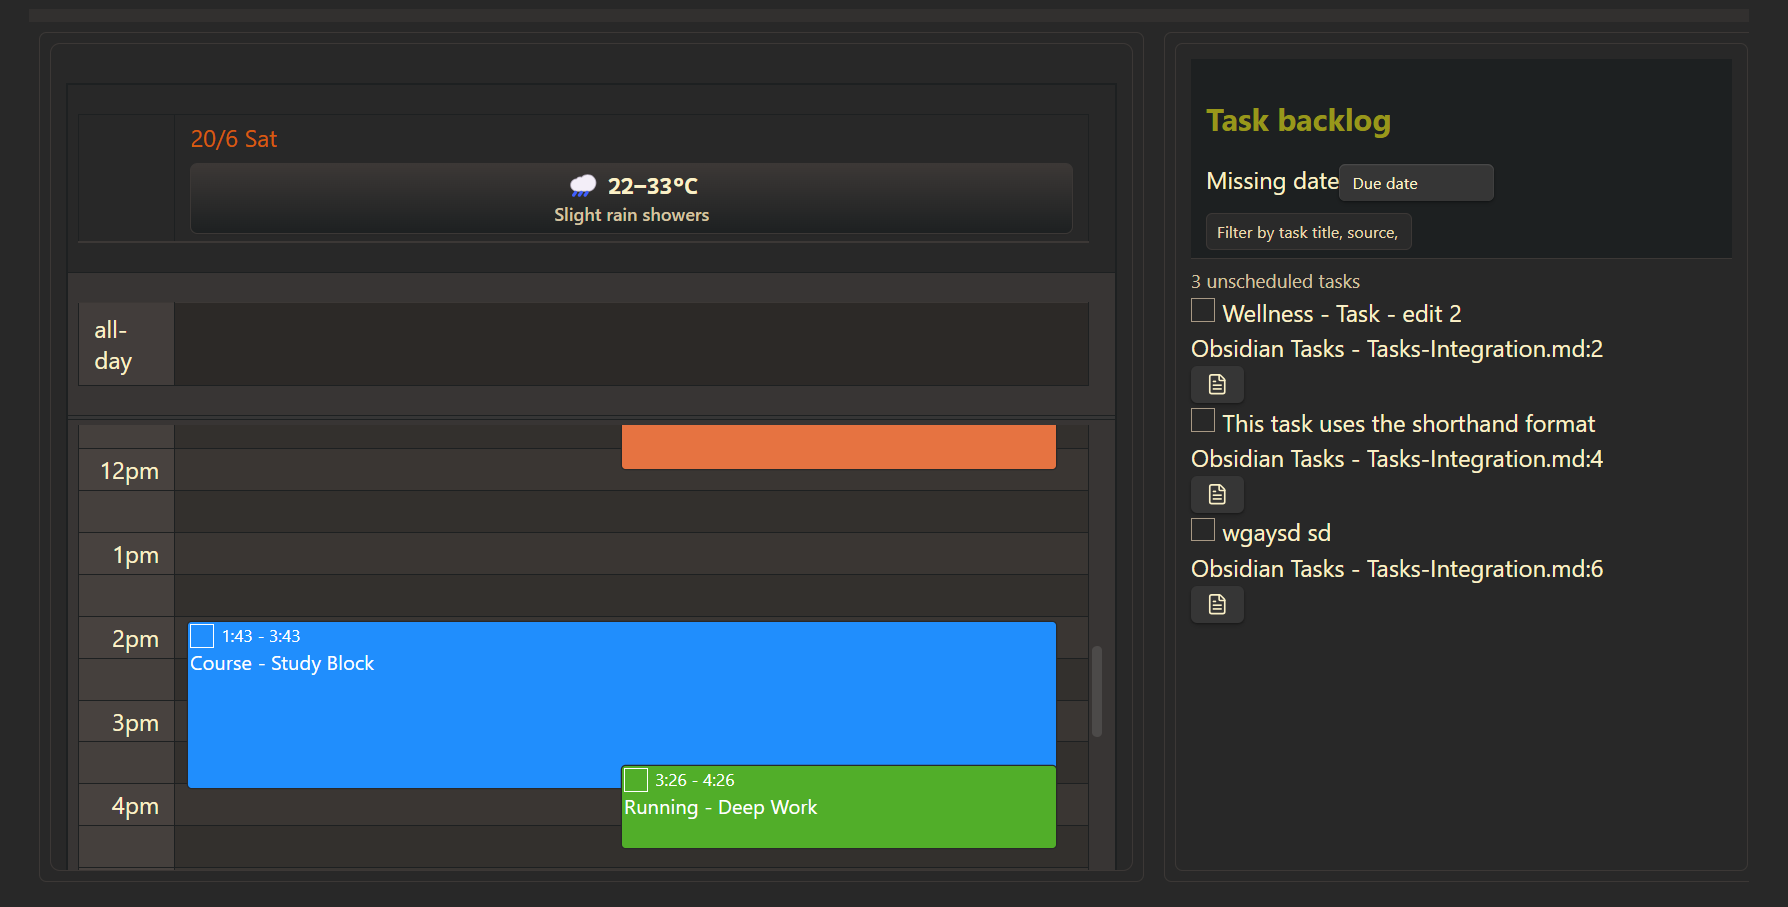
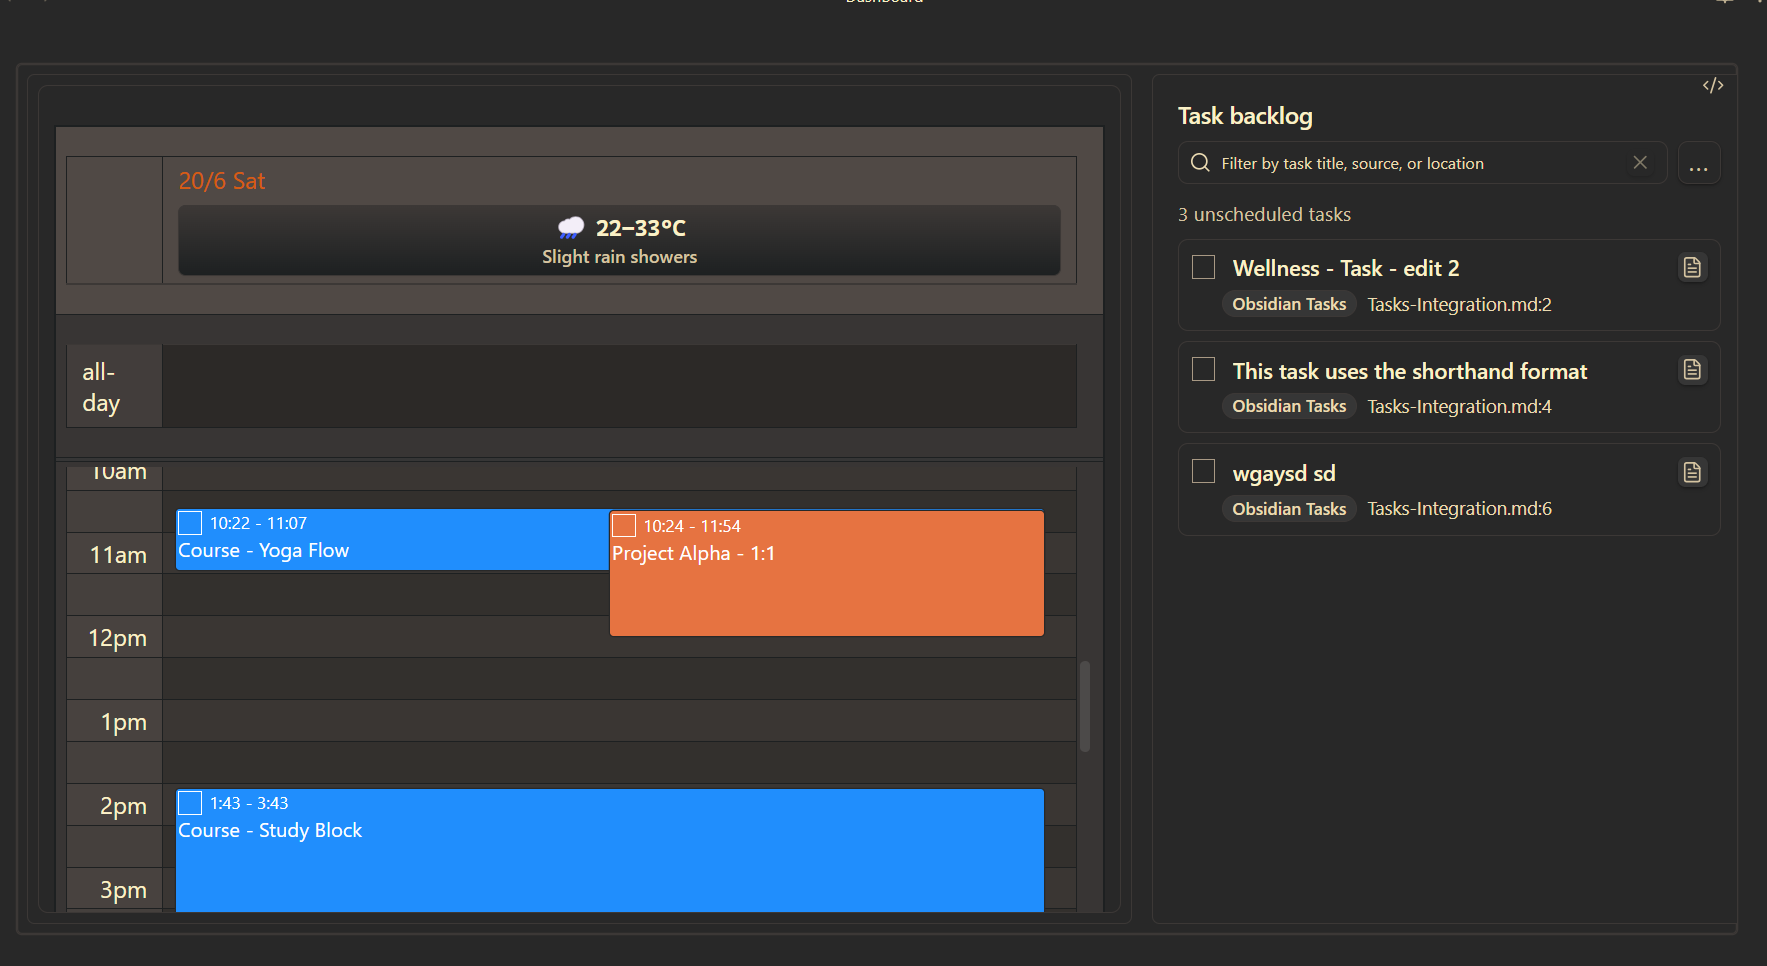
feat(docs): refine showcase layout toggling, ToC targeting, and callout spacing
- generate stable showcase card slugs and dedicated ToC anchors in build hook
- map ToC clicks to visible card targets with header-offset scrolling
- improve showcase grid with auto-fit min width and desktop drawer-toggle behavior
- expand showcase content width when left nav is hidden; restore default when shown
- remove prose max-width cap inside callouts/details to fix asymmetric right padding

diff --git a/docs/assets/stylesheets/showcase.css b/docs/assets/stylesheets/showcase.css
@@ -1,10 +1,28 @@
 /* Showcase grid and card styles */
 .fc-showcase-grid {
   display: grid;
-  grid-template-columns: repeat(auto-fill, minmax(280px, 1fr));
+  grid-template-columns: repeat(auto-fit, minmax(var(--fc-showcase-card-min-width, 280px), 1fr));
   gap: 1.5rem;
   margin: 1.5rem 0;
   max-width: 100% !important;
+}
+
+.fc-showcase-toc-anchor {
+  position: absolute;
+  left: -9999px;
+  width: 1px;
+  height: 1px;
+  margin: 0 !important;
+  padding: 0 !important;
+  overflow: hidden;
+  clip: rect(0 0 0 0);
+  white-space: nowrap;
+  border: 0 !important;
+  scroll-margin-top: 5rem;
+}
+
+.fc-showcase-toc-anchor .headerlink {
+  display: none !important;
 }
 
 .fc-showcase-card {
@@ -46,7 +64,7 @@
   gap: 0.5rem;
 }
 
-.fc-showcase-card-info h3 {
+.fc-showcase-card-title {
   margin: 0 !important;
   font-size: 1.1rem !important;
   font-weight: 600 !important;
@@ -206,10 +224,59 @@
   padding-bottom: 0 !important;
 }
 
+.fc-modal-info-col .fc-modal-title {
+  margin: 0 0 1rem !important;
+  font-size: 1.5rem !important;
+  font-weight: 700 !important;
+  line-height: 1.3 !important;
+}
+
 .fc-modal-info-col h4 {
   margin-top: 1.8rem !important;
   margin-bottom: 0.8rem !important;
   font-size: 1.1rem !important;
+}
+
+@media (min-width: 76.25em) {
+  .fc-showcase-page {
+    --fc-showcase-card-min-width: 260px;
+  }
+
+  /* Material hides drawer toggle on desktop by default; enable it for showcase page. */
+  .fc-showcase-page .md-header__button.md-icon[for="__drawer"] {
+    display: inline-flex !important;
+  }
+
+  .fc-showcase-page .md-sidebar--primary {
+    transform: translateX(calc(-100% - 0.75rem));
+    opacity: 0;
+    pointer-events: none;
+    transition: transform 0.25s ease, opacity 0.25s ease;
+  }
+
+  .fc-showcase-page .md-content {
+    margin-left: 0;
+  }
+
+  .fc-showcase-page .md-toggle[data-md-toggle="drawer"]:checked ~ .md-container .md-sidebar--primary {
+    transform: none;
+    opacity: 1;
+    pointer-events: auto;
+  }
+
+  .fc-showcase-page .md-toggle[data-md-toggle="drawer"]:checked ~ .md-container .md-content {
+    margin-left: revert;
+  }
+
+  /* When the left panel is hidden, use the freed width for more card columns. */
+  .fc-showcase-page .md-toggle[data-md-toggle="drawer"]:not(:checked) ~ .md-container .md-main .md-main__inner.md-grid {
+    max-width: min(98vw, 1900px);
+  }
+
+  /* Restore the normal docs width when the left panel is visible again. */
+  .fc-showcase-page .md-toggle[data-md-toggle="drawer"]:checked ~ .md-container .md-main .md-main__inner.md-grid {
+    max-width: revert;
+  }
 }
 
 /* Modal typography and code font size adjustments */

diff --git a/docs/assets/javascripts/showcase-modal.js b/docs/assets/javascripts/showcase-modal.js
@@ -2,6 +2,7 @@
   let activeDetails = null;
   let modalElement = null;
   let modalContent = null;
+  let tocClickBound = false;
 
   // Zoom/pan state variables
   let scale = 1;
@@ -11,8 +12,69 @@
   let startX = 0;
   let startY = 0;
 
+  function isShowcasePage() {
+    return !!document.querySelector('.fc-showcase-grid');
+  }
+
+  function syncShowcasePageClass() {
+    const active = isShowcasePage();
+    document.documentElement.classList.toggle('fc-showcase-page', active);
+    document.body.classList.toggle('fc-showcase-page', active);
+  }
+
+  function getHeaderOffset() {
+    const header = document.querySelector('.md-header');
+    const headerHeight = header instanceof HTMLElement ? header.offsetHeight : 0;
+    return headerHeight + 16;
+  }
+
+  function bindTocAnchorFix() {
+    if (tocClickBound) return;
+
+    document.addEventListener('click', event => {
+      if (!isShowcasePage()) return;
+
+      const target = event.target;
+      if (!(target instanceof Element)) return;
+
+      const tocLink = target.closest('.md-sidebar--secondary .md-nav__link[href^="#"]');
+      if (!(tocLink instanceof HTMLAnchorElement)) return;
+
+      const hash = tocLink.getAttribute('href');
+      if (!hash || hash.length < 2) return;
+
+      const targetId = decodeURIComponent(hash.slice(1));
+      const anchorTarget = document.getElementById(targetId);
+      if (!(anchorTarget instanceof HTMLElement)) return;
+
+      let scrollTarget = anchorTarget;
+      if (anchorTarget.classList.contains('fc-showcase-toc-anchor')) {
+        const cardTargetId = anchorTarget.getAttribute('data-card-target');
+        if (cardTargetId) {
+          const cardTarget = document.getElementById(cardTargetId);
+          if (cardTarget instanceof HTMLElement) {
+            scrollTarget = cardTarget;
+          }
+        }
+      }
+
+      event.preventDefault();
+      const scrollTop = scrollTarget.getBoundingClientRect().top + window.scrollY - getHeaderOffset();
+      window.scrollTo({ top: Math.max(scrollTop, 0), behavior: 'smooth' });
+
+      if (window.history && typeof window.history.replaceState === 'function') {
+        window.history.replaceState(null, '', hash);
+      }
+    });
+
+    tocClickBound = true;
+  }
+
   function initShowcaseModal() {
     const grid = document.querySelector('.fc-showcase-grid');
+    syncShowcasePageClass();
+    bindTocAnchorFix();
+
     if (!grid) return;
 
     // Create the modal element if it doesn't exist yet

diff --git a/docs/assets/stylesheets/site-polish.css b/docs/assets/stylesheets/site-polish.css
@@ -27,6 +27,14 @@
   max-width: var(--fc-content-max-width);
 }
 
+/* Callouts should use their full container width instead of prose line-length caps. */
+.md-typeset .admonition :is(p, ul, ol, blockquote, table),
+.md-typeset details :is(p, ul, ol, blockquote, table),
+.md-typeset .admonition > .admonition-title,
+.md-typeset details > summary {
+  max-width: none;
+}
+
 .md-sidebar .md-nav__link {
   border-radius: var(--fc-nav-radius);
   transition: background-color 120ms ease, color 120ms ease;

diff --git a/tools/generate_showcase.py b/tools/generate_showcase.py
@@ -1,25 +1,35 @@
+import html
 import os
 import re
 
+
+def slugify(value):
+    slug = re.sub(r"[^a-z0-9]+", "-", value.lower()).strip("-")
+    return slug or "showcase-card"
+
+
+def demote_markdown_headings(value):
+    # Hidden modal source content should not generate page-level ToC entries.
+    return re.sub(r"^#{1,6}\s+(.+)$", r"**\1**", value, flags=re.MULTILINE)
+
+
 def on_page_markdown(markdown, page, config, files):
-    # Only execute on the showcase page
-    if page.file.src_path != "user/embeds/showcase.md" and page.file.src_path != "user\\embeds\\showcase.md":
+    # Only execute on the showcase page.
+    if page.file.src_path not in {"user/embeds/showcase.md", "user\\embeds\\showcase.md"}:
         return markdown
 
-    # Path to the blueprints data file
-    docs_dir = config['docs_dir']
+    docs_dir = config["docs_dir"]
     blueprints_path = os.path.join(docs_dir, "user", "embeds", "showcase_blueprints.md")
-
     if not os.path.exists(blueprints_path):
         return markdown
 
-    with open(blueprints_path, 'r', encoding='utf-8') as f:
-        content = f.read()
+    with open(blueprints_path, "r", encoding="utf-8") as file_obj:
+        content = file_obj.read()
 
-    # Split by horizontal rule ('---') to get each blueprint card
-    # The first block (index 0) is the header/instructions section and is skipped.
-    blocks = re.split(r'\n(?:---|===|\*\*\*)\s*\n', content)
+    # Split by horizontal rule. Block 0 contains instructions and is ignored.
+    blocks = re.split(r"\n(?:---|===|\*\*\*)\s*\n", content)
 
+    toc_headings = []
     cards = []
     details_divs = []
     card_index = 0
@@ -29,84 +39,93 @@ def on_page_markdown(markdown, page, config, files):
         if not block:
             continue
 
-        # Parse the title from the markdown heading (## Title)
-        title_match = re.search(r'^##\s+(.+)$', block, re.MULTILINE)
+        title_match = re.search(r"^##\s+(.+)$", block, re.MULTILINE)
         if not title_match:
             continue
         title = title_match.group(1).strip()
+        safe_title = html.escape(title)
 
-        # Parse image path from standard markdown syntax ![Alt](path)
-        image_match = re.search(r'\*\*Image\*\*:\s*!\[[^\]]*\]\(([^)]+)\)', block)
+        image_match = re.search(r"\*\*Image\*\*:\s*!\[[^\]]*\]\(([^)]+)\)", block)
         image_path = image_match.group(1).strip() if image_match else ""
 
-        # Parse summary
-        summary_match = re.search(r'\*\*Summary\*\*:\s*([^\n]+)', block)
+        summary_match = re.search(r"\*\*Summary\*\*:\s*([^\n]+)", block)
         summary = summary_match.group(1).strip() if summary_match else ""
+        safe_summary = html.escape(summary)
 
-        # Parse the last code block (usually the nested code block to copy)
-        code_blocks = list(re.finditer(r'(^(?:````|```)[\s\S]+?^(?:````|```))', block, re.MULTILINE))
-        code_block = ""
+        code_blocks = list(re.finditer(r"(^````[\s\S]+?^````\s*$)", block, re.MULTILINE))
+        if not code_blocks:
+            code_blocks = list(re.finditer(r"(^```[\s\S]+?^```\s*$)", block, re.MULTILINE))
         if code_blocks:
             code_block = code_blocks[-1].group(1)
-            # Remove the code block from description area
-            description_block = block[:code_blocks[-1].start()]
+            description_block = block[: code_blocks[-1].start()]
         else:
+            code_block = ""
             description_block = block
 
-        # Extract remaining description text, filtering out metadata headers
+        outer_fence_match = re.match(r"^````[^\n]*\n([\s\S]*?)\n````\s*$", code_block.strip(), re.MULTILINE)
+        if outer_fence_match:
+            inner_text = outer_fence_match.group(1).strip("\n")
+            code_block = inner_text
+
         description_lines = []
-        for line in description_block.split('\n'):
+        for line in description_block.split("\n"):
             stripped = line.strip()
-            if stripped.startswith('## ') or stripped.startswith('**Image**') or stripped.startswith('**Summary**') or stripped.startswith('# '):
+            if (
+                stripped.startswith("## ")
+                or stripped.startswith("**Image**")
+                or stripped.startswith("**Summary**")
+                or stripped.startswith("# ")
+            ):
                 continue
             description_lines.append(line)
-        
-        description_text = '\n'.join(description_lines).strip()
 
-        # Rewrite relative image path for compiled HTML depth (from ../../assets to ../../../assets)
-        preview_img_src = image_path.replace('../../assets/', '../../../assets/')
+        description_text = demote_markdown_headings("\n".join(description_lines).strip())
+
+        # Adjust relative image depth for compiled HTML output path.
+        preview_img_src = image_path.replace("../../assets/", "../../../assets/")
+        card_slug = slugify(title)
+
+        toc_headings.append(
+            f"## {title} {{ #toc-{card_slug} .fc-showcase-toc-anchor data-card-target=\"{card_slug}\" }}"
+        )
 
         card_html = f"""
-  <!-- {title} Card -->
-  <div class="fc-showcase-card" data-index="{card_index}">
-    <div class="fc-showcase-card-preview">
-      <img src="{preview_img_src}" alt="{title}">
-      <div class="fc-showcase-card-info">
-        <h3>{title}</h3>
-        <p>{summary}</p>
-      </div>
-    </div>
-  </div>
+<!-- {title} Card -->
+<div class=\"fc-showcase-card\" id=\"{card_slug}\" data-index=\"{card_index}\">
+<div class=\"fc-showcase-card-preview\">
+<img src=\"{preview_img_src}\" alt=\"{safe_title}\">
+<div class=\"fc-showcase-card-info\">
+<h3 class=\"fc-showcase-card-title\">{safe_title}</h3>
+<p>{safe_summary}</p>
+</div>
+</div>
+</div>
 """
         cards.append(card_html)
 
         # Build flat details div (this will be placed at the bottom of the page, completely flat and un-nested)
         # So it will parse perfectly!
         detail_html = f"""
-<div id="fc-showcase-detail-{card_index}" class="fc-showcase-card-details" style="display: none;" markdown="1">
+<div id=\"fc-showcase-detail-{card_index}\" class=\"fc-showcase-card-details\" style=\"display: none;\" markdown=\"1\">
 
-## {title}
+<p class=\"fc-modal-title\">{safe_title}</p>
 
 {description_text}
-
-#### Configuration Code
 
 {code_block}
 
 </div>
 """
         details_divs.append(detail_html)
-        
         card_index += 1
 
-    grid_html = '<div class="fc-showcase-grid">\n' + '\n'.join(cards) + '\n</div>'
-    details_html = '\n'.join(details_divs)
-    
-    combined_output = grid_html + '\n\n' + details_html
+    headings_html = "\n\n".join(toc_headings)
+    grid_html = "<div class=\"fc-showcase-grid\">\n" + "\n".join(cards) + "\n</div>"
+    details_html = "\n".join(details_divs)
+    combined_output = headings_html + "\n\n" + grid_html + "\n\n" + details_html
 
-    # Inject into the placeholder comment
-    placeholder = '<!-- SHOWCASE_GRID_PLACEHOLDER -->'
+    placeholder = "<!-- SHOWCASE_GRID_PLACEHOLDER -->"
     if placeholder in markdown:
         return markdown.replace(placeholder, combined_output)
-    else:
-        return markdown + '\n\n' + combined_output
+
+    return markdown + "\n\n" + combined_output
